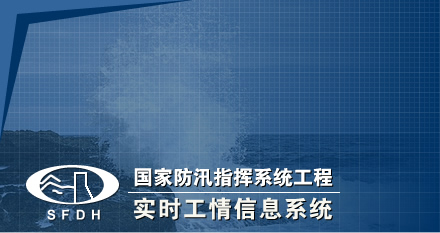
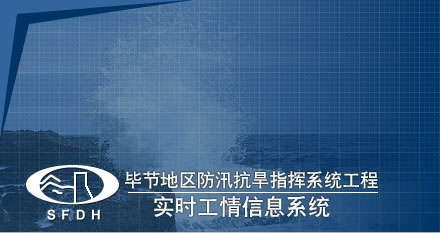
登录页面 首页面图片文字调整为“毕节地区”相关

Changed region(s): [[0.2955, 0.8412, 0.7682, 0.9614], [0.2659, 0.721, 0.8568, 0.8412]]

diff --git a/server/web_query/WebRoot/main/bottom.htm b/server/web_query/WebRoot/main/bottom.htm
@@ -16,8 +16,8 @@ td {
 <table width="100%" height="24" border="0" cellpadding="0" cellspacing="0">
   <tr> 
     <td height="24" align="right" background="images/back2.gif"><font color="#FFFFFF"> 
-      <p><font color="#FFFFFF">国家防汛抗旱总指挥部办公室</font>　　<font color="#FFFFFF">北京人大金仓信息技术有限公司制作 
-        @2010年1月 &nbsp;&nbsp;&nbsp;&nbsp;
+      <p><font color="#FFFFFF">毕节地区防汛抗旱办公室</font>　　<font color="#FFFFFF">北京人大金仓信息技术有限公司制作 
+        @2010年3月 &nbsp;&nbsp;&nbsp;&nbsp;
         </font></p>
       </font></td>
   </tr>

diff --git a/server/web_query/WebRoot/main/top.htm b/server/web_query/WebRoot/main/top.htm
@@ -8,7 +8,7 @@
 <body bgcolor="#F7F7EF" leftmargin="0" topmargin="0">
 <table width="100%" border="0" cellpadding="0" cellspacing="0" background="images/back0.gif" bgcolor="#31659C">
   <tr> 
-    <td width="280" align="left"><img src="images/logo.jpg" WIDTH="299" HEIGHT="65"></td>
+    <td width="418" align="left"><img src="images/logo.jpg" WIDTH="418" HEIGHT="65"></td>
     <td align="center"><img src="images/ssgq_r1_c5.gif" WIDTH="478" HEIGHT="65"></td>
   </tr>
 </table>
